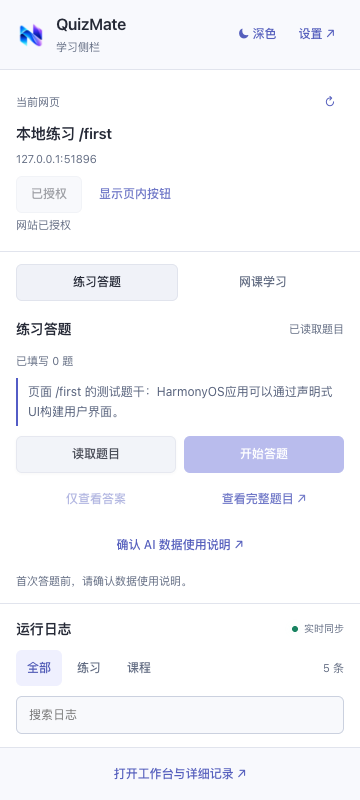
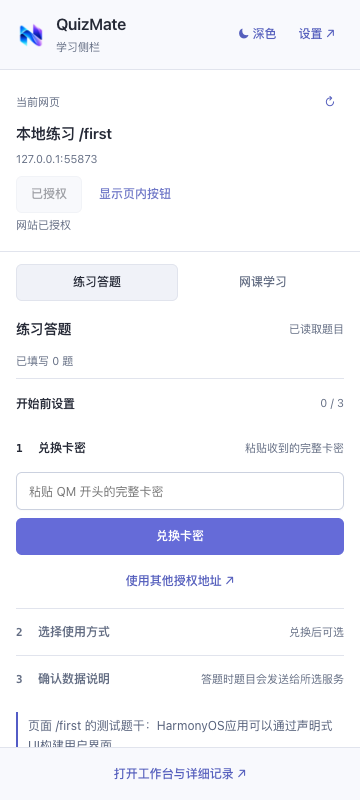
同步插件0.8.1侧栏设置手册、公开说明与gn41管理指南

diff --git a/GUIDE.md b/GUIDE.md
@@ -5,13 +5,13 @@ permalink: /guide/
 
 # QuizMate 0.8.1 详细使用教程
 
-更新于 **2026 年 11 月 10 日**。适用于 Windows / macOS 电脑版 Edge。教程按 0.8.1 的学习侧栏编写，商店版本以实际审核上线情况为准。
+更新于 **2026 年 11 月 10 日**。适用于 Windows / macOS 电脑版 Edge。本次补充侧栏三步设置、两类卡密、自配 API 和模式切换说明；商店版本以实际审核上线情况为准。
 
-> **答题期间，请保持考试所在的浏览器标签页打开，不要退出浏览器。**
+> **答题期间，请保持练习所在的浏览器标签页打开，不要退出浏览器。**
 >
-> 关闭考试标签会中断任务，重新打开也不会自动接着答题。等待答案或填写时，也不要刷新、后退、跳到其他页面或手动换题。需要暂时离开时点“暂停”；结束时点“停止”，确认任务已停止后再关闭考试页。
+> 关闭答题标签会中断任务，重新打开也不会自动接着答题。等待答案或填写时，也不要刷新、后退、跳到其他页面或手动换题。需要暂时离开时点“暂停”；结束时点“停止”，确认任务已停止后再关闭练习页。
 
-首次使用顺序：**安装插件 → 打开题目网页 → 打开学习侧栏 → 兑换卡密并保存使用方式 → 回到题目网页授权 → 读取题目 → 查看答案或开始答题 → 核对后手动提交。**
+首次使用顺序：**安装插件 → 打开题目网页 → 打开学习侧栏 → 按“开始前设置”完成三步 → 读取题目并按提示授权网站 → 查看答案或开始答题 → 核对后手动提交。**
 
 ## 1. 在 Edge 安装插件
 
@@ -23,7 +23,7 @@ permalink: /guide/
 4. 点击浏览器右上角的 **扩展**图标，找到 QuizMate，选择 **在工具栏中显示**。不同 Edge 版本可能显示眼睛或固定图标。
 5. 点击工具栏中的 **QuizMate 图标**，能打开右侧的**学习侧栏**，表示安装完成。
 
-商店安装不需要开启开发者模式。使用“官方-题库+ AI Nexly”不需要安装 Node.js、本地桥或填写 API Key；套餐权益在兑换卡密后生效。
+商店安装不需要开启开发者模式。使用“官方服务（题库＋AI）”不需要安装 Node.js、本地桥或填写 API Key；套餐权益在兑换卡密后生效。
 
 找不到图标时，在 Edge 地址栏输入 `edge://extensions` 并回车，确认 QuizMate 已启用，并确认当前使用的是安装时的浏览器个人资料。
 
@@ -39,36 +39,45 @@ permalink: /guide/
 
 **侧栏跟随当前正在看的网页。** 顶部会显示网页名称和网站地址，授权前先确认这里确实是你的题目或课程网站。无需再到工作台选择“目标页面”。
 
-切换标签后，侧栏会显示新网页；已经启动的任务仍绑定原来的考试标签，不会自动换到其他页面。侧栏出现 **返回任务网页** 时，可点击回到原题。
+切换标签后，侧栏会显示新网页；已经启动的任务仍绑定原来的答题标签，不会自动换到其他页面。侧栏出现 **返回任务网页** 时，可点击回到原题。
 
 ![新版学习侧栏：上方是当前网页与答题操作，下方是运行日志]({{ '/assets/guide/quizmate-sidebar-v081.png' | relative_url }})
 
-*图为 0.8.1 隔离演示页面，首次使用尚未确认数据说明，因此部分按钮未启用。题目和日志用于展示布局。*
+*图为当前版本的本地模拟页面，尚未兑换卡密，“开始前设置”处于展开状态。题目和日志用于展示布局。*
 
 ## 3. 兑换卡密并选择使用方式
 
 ### 兑换卡密
 
-1. 在学习侧栏右上角点 **设置**，打开工作台。
-2. 进入 **设置中心 → 卡密与授权**。
-3. 粘贴收到的完整卡密，点击 **兑换卡密**。浏览器请求访问授权网站时，核对地址后允许。
-4. 等待兑换结果。成功后会**自动核验并刷新额度和有效期**，无需再手动核验一次。
-5. 核对卡密类型、剩余次数或余额、有效期。兑换操作即时生效，不需要再点“保存设置”才能兑换成功。
+首次打开学习侧栏时，“练习答题”下方会显示 **开始前设置**，三步都在侧栏内完成，不用打开工作台：
 
-默认授权服务地址为 `https://xianyu.guangnian.xin`。使用其他发卡方服务时，按发卡方提供的可信地址配置。
+1. **兑换卡密**：粘贴收到的完整卡密，点击 **兑换卡密**。浏览器请求访问授权网站时，核对地址后允许。成功后自动核验并刷新权益，无需再手动核验，也不用点“保存设置”。
+2. **选择使用方式**：首次仅有官方服务可用时自动选好；刷题时长卡需要在 API 模式和本地模式中选一个。API 模式未配置时，点 **填写 API 配置** 到工作台填写并保存；本地模式可点 **配置本地模式** 检查 CLI 和本地桥。
+3. **确认数据说明**：阅读说明，勾选后点 **确认并启用 AI 功能**。
+
+完成后这一区域收起为一行状态，可点 **更换** 调整。需要查看权益明细时，进入 **设置中心 → 卡密与授权**，也可以在这里兑换。
+
+![侧栏内的开始前设置：兑换卡密、选择使用方式、确认数据说明]({{ '/assets/guide/quizmate-setup-v081.png' | relative_url }})
+
+*图为尚未选择题目网页时的本地模拟设置流程；未使用真实卡密或付费模型。完成设置后，回到题目网页授权并读取。*
+
+“已就绪”表示设置步骤已完成。若提示连接检测失败、API 密钥已锁定或额度不足，按提示处理；求解前仍会核验连接和权益。确认数据说明也不等于已经授予题目网站的读取权限，回到原网页首次读题时还需按浏览器提示授权。
+
+默认授权服务地址为 `https://xianyu.guangnian.xin`。使用其他发卡方服务时，点侧栏的 **使用其他授权地址**，或在卡密页展开 **使用其他授权服务地址**，按发卡方提供的可信地址填写。
 
 ### 选择官方服务
 
+兑换官方服务卡后，如果当前没有其他可用的使用方式，会自动选用官方服务。已有有效模式时保留原来的选择，兑换新卡不会擅自切到另一种计费方式。需要手动切换时：
+
 1. 进入 **设置中心 → 模型连接**。
-2. 在“使用方式”中选择 **官方-题库+ AI Nexly**。
+2. 在“使用方式”中选择 **官方服务（题库＋AI）**，选中即生效。本地模式同样选中即生效；API 模式填写后需点 **保存设置**。
 3. 如卡密页提供多个允许模型，按套餐选择可用模型。
-4. 点击 **保存设置**，确认保存成功，再返回原来的题目网页。
 
 **可选模式由当前有效卡密决定：**
 
 | 当前授权 | “使用方式”中能看到的选项 |
 | --- | --- |
-| 有效官方服务卡 | 官方-题库+ AI Nexly |
+| 有效官方服务卡 | 官方服务（题库＋AI） |
 | 有效刷题时长卡 | 本地模式、API 模式 |
 | 两类卡都有 | 上述选项均可见 |
 | 没有有效授权 | 提示“请先兑换有效卡密” |
@@ -76,6 +85,13 @@ permalink: /guide/
 没有权限的选项会自动隐藏。到期、停用、退出授权或核验失败后，对应选项也会移除。兑换官方卡后看不到 API 模式，先核对卡密类型，无需反复兑换同一张卡。
 
 ### 权益与用量
+
+| 卡密类型 | 可以使用 | 限制与费用 |
+| --- | --- | --- |
+| 官方服务卡 | 官方服务（题库＋AI） | 按套餐限制有效期、调用次数和金额；设置了多项时，任一达到限制即停止新请求。不包含本地 CLI／自配 API 权限。 |
+| 刷题时长卡 | 本地模式、API 模式 | 按有效期授权，当前不扣官方套餐次数或余额；所用 CLI／API 的费用由对应服务商收取。不包含官方题库和模型额度。 |
+
+**两类卡可同时兑换，但期限和用量独立，不会共用一个余额。** 只有官方卡，即使设置了有效期，也不会开放本地模式或 API 模式。
 
 - 官方卡按套餐配置的次数、余额、有效期和允许模型使用；**题库命中也扣一次套餐次数**。
 - 刷题时长卡用于本地模式和自配 API，首次激活后连续计时，离线也计时。
@@ -95,17 +111,16 @@ permalink: /guide/
 
 1. 保持在题目网页，点击工具栏 **QuizMate 图标**。
 2. 核对侧栏顶部的网页名称和网站地址。
-3. 首次使用点 **授权此网站**，按浏览器提示允许访问。
+3. 首次读取题目时，按浏览器提示允许访问；也可以提前点 **授权此网站**。
 4. 如果题目嵌在另一个网站的页面里，插件可能继续申请题目所在网站的权限，核对后按需允许。
 
-授权只针对对应网站。在扩展商店、浏览器设置页或插件自身页面，无法读取考试题目。
+授权只针对对应网站。在扩展商店、浏览器设置页或插件自身页面，无法读取练习题目。
 
 ### 第三步：读取并核对题目
 
 1. 在侧栏选择 **练习答题**。
 2. 点击 **读取题目**，检查侧栏显示的题目摘要是否与网页一致。
 3. 需要检查完整题干、全部选项或代码时，点 **查看完整题目**，在工作台查看。
-4. 首次求解如提示 **确认 AI 数据使用说明**，打开说明并确认，再回到原题目网页。
 
 **只读题不会调用模型。** 如果读到上一题、缺少选项或题目不完整，先停止操作，等待页面加载后重新读取。
 
@@ -117,7 +132,7 @@ permalink: /guide/
 | 填入答案 | 将已取得的答案写入当前题目 | 预览后确认要填写，且页面仍是原题。 |
 | 开始答题 | 按练习策略求解、检查并填写，支持的页面可继续处理后续题 | 需要连续练习，已经核对题目识别正常。 |
 
-**点击后请保留考试标签和当前题目，等待侧栏显示结果。** 不要在“请求中”“等待答案”或“填写中”刷新、关闭页面或手动换题，也不要因等待而重复点击求解。
+**点击后请保留答题标签和当前题目，等待侧栏显示结果。** 不要在“请求中”“等待答案”或“填写中”刷新、关闭页面或手动换题，也不要因等待而重复点击求解。
 
 侧栏显示答案后，可在 **本题答案** 区域查看；长答案与完整解释可到工作台查看。插件会检查答案结构、选项对应和置信度，无法可靠填写时会停止或提示人工处理。置信度数值不等于实际正确率。
 
@@ -132,14 +147,14 @@ permalink: /guide/
 | 按钮或操作 | 使用说明 |
 | --- | --- |
 | 暂停 | 暂时挂起任务，按侧栏状态确认是否已经暂停。不要把“暂停”当作当前请求已撤回。 |
-| 继续 | 确认考试标签仍打开、页面和题目状态正常后，继续原任务。 |
+| 继续 | 确认答题标签仍打开、页面和题目状态正常后，继续原任务。 |
 | 停止 | 结束本次任务，已填写内容保留；读取题目期间只能停止，不能暂停。 |
 | 返回任务网页 | 切换标签后回到本次任务启动时的页面。 |
-| 收起学习侧栏 | 只收起界面，不等于停止任务；原考试标签仍须保持打开。 |
+| 收起学习侧栏 | 只收起界面，不等于停止任务；原答题标签仍须保持打开。 |
 
-**结束顺序：点“停止” → 确认状态已停止 → 核对已填写内容 → 再关闭考试标签。** 停止或关闭标签不能保证撤回已发出的模型请求，已产生的用量请以调用记录为准。
+**结束顺序：点“停止” → 确认状态已停止 → 核对已填写内容 → 再关闭答题标签。** 停止或关闭标签不能保证撤回已发出的模型请求，已产生的用量请以调用记录为准。
 
-“允许后台运行”控制切换标签或窗口时是否继续，**不能让已关闭的考试标签继续答题**。关闭该设置时，离开任务页面可能触发暂停；返回后核对状态再继续。页面本身有离开限制时，按平台要求操作。
+“允许后台运行”控制切换标签或窗口时是否继续，**不能让已关闭的答题标签继续答题**。关闭该设置时，离开任务页面可能触发暂停；返回后核对状态再继续。页面本身有离开限制时，按平台要求操作。
 
 ## 6. 编程题和作业
 
@@ -174,6 +189,8 @@ permalink: /guide/
 
 视频按正常播放推进，支持的国开 HTML 正文会滚动阅读。默认 1 倍速、换章等待 3 秒、无进度 120 秒暂停，可在 **设置 → 课程播放** 调整。遇到登录、验证、锁定内容、PDF、附件或无法识别的播放器时，按提示人工处理。
 
+播放速度可设置为 0.5～32 倍，实际速度取决于网页播放器允许范围。无法应用所选倍速时，降低设置并核对实际播放；不要把所选倍速或侧栏进度当作平台已确认完成。
+
 **课程标签也要保持打开。** 关闭课程页或退出浏览器会中断学习；界面显示的进度需结合平台实际记录核对。
 
 页面存在可识别的随堂题时，会显示 **查看随堂答案** 或 **填写随堂练习**。这些操作需要相应模型授权和数据使用同意，可能产生用量；完成后可切回 **练习答题** 查看答案。自动预览默认关闭，最终提交仍由你操作。停止课程播放后，如另有正在求解的题目，请到“练习答题”检查并单独停止。
@@ -200,7 +217,7 @@ permalink: /guide/
 
 ## 9. 误关、刷新或中断后怎么恢复
 
-**关闭考试标签、刷新页面或重新登录后，原任务不能自动接着填写。** 即使浏览器恢复了同一个网址，也要重新确认题目。
+**关闭答题标签、刷新页面或重新登录后，原任务不能自动接着填写。** 即使浏览器恢复了同一个网址，也要重新确认题目。
 
 1. 重新打开题目页面并登录，确认平台是否保留之前的作答。
 2. 打开学习侧栏，如旧任务仍显示运行，先点 **停止**。
@@ -210,7 +227,7 @@ permalink: /guide/
 
 看到 **“题目页面已刷新或关闭，本批已停止；请重新读取题目后再开始”** 或 **“No document with id …”**，按上述步骤处理。不要继续点击旧页面对应的“填入答案”。
 
-如果只是收起学习侧栏，重新点击工具栏 QuizMate 即可查看状态；只要考试标签仍在，收起侧栏本身不会结束任务。
+如果只是收起学习侧栏，重新点击工具栏 QuizMate 即可查看状态；只要答题标签仍在，收起侧栏本身不会结束任务。
 
 ## 10. 常见问题
 
@@ -218,17 +235,19 @@ permalink: /guide/
 | --- | --- |
 | 安装后没有图标 | 在 Edge 的“扩展”中显示 QuizMate；核对扩展启用状态及浏览器个人资料。 |
 | 界面只有旧日志栏，没有读题按钮 | 在扩展管理页核对版本。本教程按 0.8.1 编写，商店更新以实际审核上线情况为准；更新完成后，在任务开始前刷新题目页。 |
-| 设置页面无法读到考试题 | 返回真正的题目标签，在该页打开侧栏，核对顶部网站，再授权和读题。 |
+| 设置页面无法读到练习题 | 返回真正的题目标签，在该页打开侧栏，核对顶部网站，再授权和读题。 |
 | 授权了还是读不到 | 等题目加载完成，检查题目所在嵌入页面的域名权限；确认当前页有完整题目，再重新读取。 |
-| 兑换成功却看不到某种模式 | 只有对应有效卡密允许的模式会显示。检查卡密类型、期限和核验状态。 |
+| 兑换成功却看不到某种模式 | 官方卡只开放官方服务；刷题时长卡开放本地模式和 API 模式。检查卡密类型、期限和核验状态，无需反复兑换。 |
+| 开始前设置停在“选择使用方式” | 刷题时长卡需先选 API 或本地模式。API 地址、Key 或模型未填完整时，点“填写 API 配置”，保存后回到题目页继续；密钥已锁定时先解锁。 |
+| 兑换另一类卡后没有自动切换 | 当前模式仍有效时会保留原选择。需要切换时点侧栏“更换”，或进入“设置中心 → 模型连接”。 |
 | 明明有题库，仍走模型 | 官方服务仅匹配当前套餐允许的启用、已审核题库；信息不全、答案冲突或无法可靠对应时会调用模型。向客服提供题干、完整选项和调用时间核对。 |
 | 选项顺序变了怎么办 | 题库答案按当前选项内容映射。填写后核对当前选项正文，不能只对照旧题的答案字母。 |
 | 仅查看答案会扣次数吗 | 会发起求解，可能消耗套餐；题库命中也扣一次。单纯读取题目和查询权益不调用模型。 |
-| 请求很久没返回 | 保留考试标签，查看日志中的等待、超时或失败状态；先查用量，再决定是否重试，不要连续点击。 |
+| 请求很久没返回 | 保留答题标签，查看日志中的等待、超时或失败状态；先查用量，再决定是否重试，不要连续点击。 |
 | 页面报错但后台有调用 | 请求发出后，即使页面关闭、刷新或填写失败，也可能已经产生模型用量。提供调用时间和脱敏错误信息给发卡方核对。 |
 | 显示待核对、预占或未决 | 先刷新权益查看处理结果，仍未更新时联系发卡方；不要把预占直接当作已扣费或已释放。 |
-| 关闭侧栏后任务还在运行 | 收起侧栏不会停止任务。重新打开侧栏点“停止”，确认状态后再关闭考试页。 |
-| 误关考试标签后能自动接着答吗 | 不能。重新打开并确认已作答情况，重新读取当前题目，再手动开始，详见第 9 节。 |
+| 关闭侧栏后任务还在运行 | 收起侧栏不会停止任务。重新打开侧栏点“停止”，确认状态后再关闭练习页。 |
+| 误关答题标签后能自动接着答吗 | 不能。重新打开并确认已作答情况，重新读取当前题目，再手动开始，详见第 9 节。 |
 | 题目网站要求登录或安全验证 | 在原网站按提示完成，再回到当前题目重新读取。 |
 | 填写完成就交卷了吗 | 没有。检查页面实际内容，由你手动交卷、提交代码或保存提交作业。 |
 
@@ -238,7 +257,12 @@ permalink: /guide/
 
 ### 自配 API
 
-进入 **设置 → 模型连接 → API 模式**，选择预设或填写可信的 OpenAI 兼容服务地址、API Key 和模型名，按需授权服务域名并保存。支持 Chat Completions / Responses，预填服务信息不代表已获得 Key 或额度。
+1. 先兑换有效的刷题时长卡，再进入 **设置中心 → 模型连接 → API 模式**。
+2. 新配置的地址与模型默认留空。选择列表中的服务商预设，或选择 **自定义 API**，填写服务商提供的 OpenAI 兼容地址、API Key 和模型 ID。
+3. 按需授权 API 域名。点 **获取模型** 后选择有权限的模型；服务不提供模型列表时，可手动填写模型 ID。
+4. 点击 **保存设置**，确认保存成功，再回题目网页读取和求解。支持 Chat Completions / Responses；预设只填写公开地址，不提供密钥、模型权限或余额。
+
+已有用户保存的地址与模型继续保留。新配置不会自动补入旧的默认地址或模型；官方模式的模型则以卡密套餐返回的列表为准。
 
 “获取模型”用于查询模型目录；“测试连接”会发送固定测试题，可能产生少量费用。Key 默认保存在本次浏览器会话；启用口令加密保存后，重启需解锁。更换服务商域名需重新输入 Key，忘记加密口令可清除后重新配置。
 

diff --git a/PRIVACY.md b/PRIVACY.md
@@ -5,7 +5,7 @@ permalink: /privacy/
 
 # QuizMate 隐私政策
 
-适用版本：0.8.0。更新日期及本次修订生效日期：2026 年 11 月 7 日。
+适用版本：0.8.1。更新日期及本次修订生效日期：2026 年 11 月 10 日。
 
 本政策适用于 QuizMate · 智答伴侣浏览器扩展、可选本地 CLI 桥，以及用户主动使用的 QuizMate 授权与官方服务。维护者为 GitHub 账号 [SW1109](https://github.com/SW1109)。自行配置的模型服务、CLI 工具、课程网站及其他发卡方也可能依据各自政策处理信息。
 
@@ -19,11 +19,11 @@ permalink: /privacy/
 
 | 模式 | 数据接收方与用途 |
 | --- | --- |
-| 官方-题库+ AI Nexly | 题干、选项、必要的代码或报错、所选模型、请求编号、插件版本和页面来源域名发送到所兑换卡对应的授权后台。后台先在套餐允许的已审核题库中匹配；未可靠命中或答案存在冲突时，再将求解内容发送至管理员配置的模型服务。默认模型服务为 Nexly。 |
+| 官方服务（题库＋AI） | 题干、选项、必要的代码或报错、所选模型、请求编号、插件版本和页面来源域名发送到所兑换卡对应的授权后台。后台先在套餐允许的已审核题库中匹配；未可靠命中或答案存在冲突时，再将求解内容发送至管理员配置的模型服务。 |
 | 自配 API | 求解内容从浏览器发送到用户保存的 API 地址。授权后台另行收到刷题时长核验请求，不接收该模式的题目或 API Key。 |
 | 本地 CLI | 求解内容交给本机安装的 CLI 工具；CLI 可能根据自身配置向模型服务联网。授权后台只核验刷题时长，不接收 CLI 凭据或该模式的题目。 |
 
-官方授权默认服务地址为 `https://xianyu.guangnian.xin`；用户可改为可信的兼容后台。Nexly 默认 API 地址为 `https://nexly.guangnian.xin/v1`。更换模式或后台会改变接收数据的服务方，请在保存前核对。
+官方授权默认服务地址为 `https://xianyu.guangnian.xin`；用户可改为可信的兼容后台。API 模式不预设服务地址，由用户自行填写。更换模式或后台会改变接收数据的服务方，请在保存前核对。
 
 ## 3. 处理的数据类型
 
@@ -51,7 +51,7 @@ permalink: /privacy/
 
 模型 API、CLI 提供方、课程网站、GitHub 和用户点击的外部网站各自处理其收到的数据。模型请求可能由相关服务继续转交下游模型提供方；所在区域、日志保留、是否用于训练及跨境处理，以相应提供方的政策和配置为准，本扩展不能替第三方承诺零留存或远程删除。
 
-本公开文档托管于 GitHub Pages；访问页面或提交 GitHub 反馈时，GitHub 会依据其[隐私声明](https://docs.github.com/en/site-policy/privacy-policies/github-general-privacy-statement)处理连接和账户信息。普通 Issues 中的内容会公开显示。若用户主动扫码赞助，支付由微信处理，扩展不获取微信支付交易详情；赞助不代替套餐购买。
+本公开文档托管于 GitHub Pages；访问页面或提交 GitHub 反馈时，GitHub 会依据其[隐私声明](https://docs.github.com/en/site-policy/privacy-policies/github-general-privacy-statement)处理连接和账户信息。普通 Issues 中的内容会公开显示。
 
 ## 6. 用户控制
 
@@ -61,7 +61,7 @@ permalink: /privacy/
 
 ## 7. 联系、访问与删除请求
 
-一般问题请访问[帮助与支持](SUPPORT.md)或[公开反馈入口](https://github.com/SW1109/quizmate-public-docs/issues)。隐私或安全问题可使用[私密报告入口](https://github.com/SW1109/quizmate-public-docs/security/advisories/new)，避免公开身份和授权信息。GitHub 反馈需要 GitHub 账号。
+一般问题请访问[帮助与支持](https://sw1109.github.io/quizmate-public-docs/support/)或[公开反馈入口](https://github.com/SW1109/quizmate-public-docs/issues)。隐私或安全问题可使用[私密报告入口](https://github.com/SW1109/quizmate-public-docs/security/advisories/new)，避免公开身份和授权信息。GitHub 反馈需要 GitHub 账号。
 
 涉及自行部署后台或另行购买的卡密时，应同时联系实际运营方或发卡方。核验请求时只提供必要的脱敏信息；不要发送 API Key、口令、完整卡密或会话令牌。无法访问私密报告时，可以先提交不含个人资料的联系请求，约定私密渠道后再核验。
 
@@ -69,4 +69,4 @@ permalink: /privacy/
 
 未成年人应在监护人指导与同意下使用，不应在题目或反馈中填写无关个人信息。扩展不针对未成年人投放广告。
 
-功能或数据处理发生实质变化时，会在本页面及扩展帮助中更新，必要时重新请求同意。更新历史见[版本记录](CHANGELOG.md)。
+功能或数据处理发生实质变化时，会在本页面及扩展帮助中更新，必要时重新请求同意。更新历史见[版本记录](https://sw1109.github.io/quizmate-public-docs/changelog/)。

diff --git a/index.md b/index.md
@@ -7,16 +7,16 @@ permalink: /
 
 QuizMate 是面向允许使用辅助工具的学习与练习场景的 Chrome / Edge 浏览器扩展，提供题目识别、参考答案预览、受控填写和网课学习辅助。最终提交由用户完成。
 
-当前公开说明对应插件 **0.8.0**，更新于 **2026 年 11 月 7 日**。
+当前操作说明对应插件 **0.8.1**，更新于 **2026 年 11 月 10 日**。商店已发布版本以实际展示为准。
 
 ![完整工作台 · 白色主题]({{ '/assets/store/01-workspace-light-1280x800.png' | relative_url }})
 
-新版提供独立标签工作台、只读日志侧栏和可固定的网页悬浮窗，支持暗色与白色亮色同步切换。
+在题目或课程网页打开学习侧栏，按“开始前设置”完成兑换卡密、选择使用方式、确认数据说明，即可授权并读取网页。日志位于操作区下方；完整设置和历史记录在独立工作台查看，支持亮暗主题与页内悬浮控制。
 
 ## 模型连接
 
-- **官方-题库+ AI Nexly**：使用官方服务卡，先按套餐配置匹配已审核题库，未可靠命中时调用授权模型。题库命中也消耗套餐调用次数。
-- **自配 API**：使用独立刷题时长授权，题目直接发送至用户配置的模型 API。
+- **官方服务（题库＋AI）**：使用官方服务卡，先按套餐配置匹配已审核题库，未可靠命中时调用授权模型。题库命中也消耗套餐调用次数。
+- **自配 API**：使用独立刷题时长授权，地址和模型默认留空，由用户选择服务商预设或自行填写；题目发送至用户保存的模型 API。
 - **本地 CLI**：使用独立刷题时长授权，通过本地桥调用已安装、已登录的命令行工具；是否联网由相应工具及其配置决定。
 
 “官方”表示 QuizMate 的服务模式名称，不表示与浏览器厂商、课程平台或模型厂商存在官方隶属关系。

diff --git a/EDGE_SUBMISSION.md b/EDGE_SUBMISSION.md
@@ -5,7 +5,7 @@ permalink: /edge-submission/
 
 # Microsoft Edge Add-ons 公开信息与填写清单
 
-材料对应：QuizMate · 智答伴侣 0.8.0。核对日期：2026 年 11 月 7 日。
+操作、权限与隐私材料对应：QuizMate · 智答伴侣 0.8.1，更新于 2026 年 11 月 10 日。商店截图另按图片页标注版本核对。
 
 ## 可填写的公开链接
 
@@ -28,7 +28,7 @@ permalink: /edge-submission/
 
 简短描述：网页学习与练习助手，支持题库与 AI 参考答案、API、本地 CLI 及正常课程播放，核对后填写，最终提交由用户完成。
 
-完整描述：QuizMate 为允许辅助工具的学习与练习提供题目识别、答案预览、受控填写与编程题样例修正。官方-题库+ AI Nexly 模式使用官方服务卡，先匹配套餐选中的已审核题库，未可靠匹配时调用授权模型；也可使用独立时长授权配置 API 或本地 CLI。支持有限课程站点的目录识别与正常播放，不保证所有页面主题兼容，不自动交卷、不绕过验证或平台规则。模型及题库答案都需要用户核对。
+完整描述：QuizMate 为允许辅助工具的学习与练习提供题目识别、答案预览、受控填写与编程题样例修正。学习侧栏提供兑换卡密、选择使用方式、确认数据说明的三步设置，并跟随当前网页授权、读题和查看日志。官方服务（题库＋AI）使用官方服务卡，先匹配套餐选中的已审核题库，未可靠匹配时调用授权模型；也可使用独立时长授权配置 API 或本地 CLI。支持有限课程站点的目录识别与正常播放，不自动交卷。模型及题库答案均需用户核对。
 
 ## 当前版本图片
 

diff --git a/CHANGELOG.md b/CHANGELOG.md
@@ -5,6 +5,15 @@ permalink: /changelog/
 
 # 更新记录
 
+## 0.8.1 · 2026-11-10
+
+- 学习侧栏跟随当前网页，集中授权、读题答题、网课和运行日志，不再要求在工作台选择目标网页。
+- 增加侧栏三步设置：兑换卡密、选择使用方式、确认数据说明；兑换成功自动核验并更新权益，已有有效模式会保留。
+- 仅显示有效卡密允许的模式。官方服务卡与刷题时长卡独立，前者按套餐使用题库与模型，后者按期限授权 CLI／自配 API。
+- 官方模式改名为“官方服务（题库＋AI）”；自配 API 新配置不预填地址或模型，已有配置继续保留，移除赞助入口。
+- 完善中文错误说明、页面关闭或刷新后的中断恢复，以及重复请求保护。答题期间需保持原标签打开。
+- 课程倍速设置最高 32 倍，实际效果取决于网页播放器支持；操作手册、隐私说明和本地模拟设置截图同步更新。
+
 ## 0.8.0 · 2026-11-07
 
 - 工作台与设置移到独立浏览器标签，同一窗口复用，并显式选择课程/练习网页。

diff --git a/PERMISSIONS.md b/PERMISSIONS.md
@@ -32,6 +32,6 @@ permalink: /permissions/
 
 ## 数据去向
 
-官方-题库+ AI Nexly 模式把必要题目内容发送给授权后台，先匹配题库，未可靠命中时调用后台配置的模型服务；调用与计费记录保留于后台。自配 API 将题目直接发送给所配置接口；本地 CLI 交由本机工具处理。后两种模式会另行向授权后台核验时长，不把题目或模型凭据附加到核验请求。
+官方服务（题库＋AI） 模式把必要题目内容发送给授权后台，先匹配题库，未可靠命中时调用后台配置的模型服务；调用与计费记录保留于后台。自配 API 将题目直接发送给所配置接口；本地 CLI 交由本机工具处理。后两种模式会另行向授权后台核验时长，不把题目或模型凭据附加到核验请求。
 
 课程目录、视频、文档正文不会作为模型请求上传。后台管理员主动查询 IP 地区时，相关 IP 会发送至地区查询服务。具体数据类型、保留及清理方式见[隐私政策](https://sw1109.github.io/quizmate-public-docs/privacy/)。

diff --git a/README.md b/README.md
@@ -19,4 +19,4 @@
 
 本仓库不提供插件源码、后台源码、题库内容、卡密或模型密钥。公开文档不改变插件及相关服务的代码许可或访问权限。
 
-插件操作手册已更新至 0.8.1，说明学习侧栏、权限可见的使用方式和考试标签中断恢复。助手端管理手册及商店图片分别以各文件标注版本为准。插件源码与助手源码仍在各自私有仓库，公开目录不存放安装包、题库、审核凭证或运行数据。
+插件操作手册已同步 0.8.1 当前设置流程，说明侧栏三步设置、两类卡密、模型连接、答题和中断恢复。助手端管理手册同步 gn41 的卡密中心与卡种选择。商店图片以各文件标注版本为准。插件源码与助手源码仍在各自私有仓库，公开目录不存放安装包、题库、审核凭证或运行数据。
